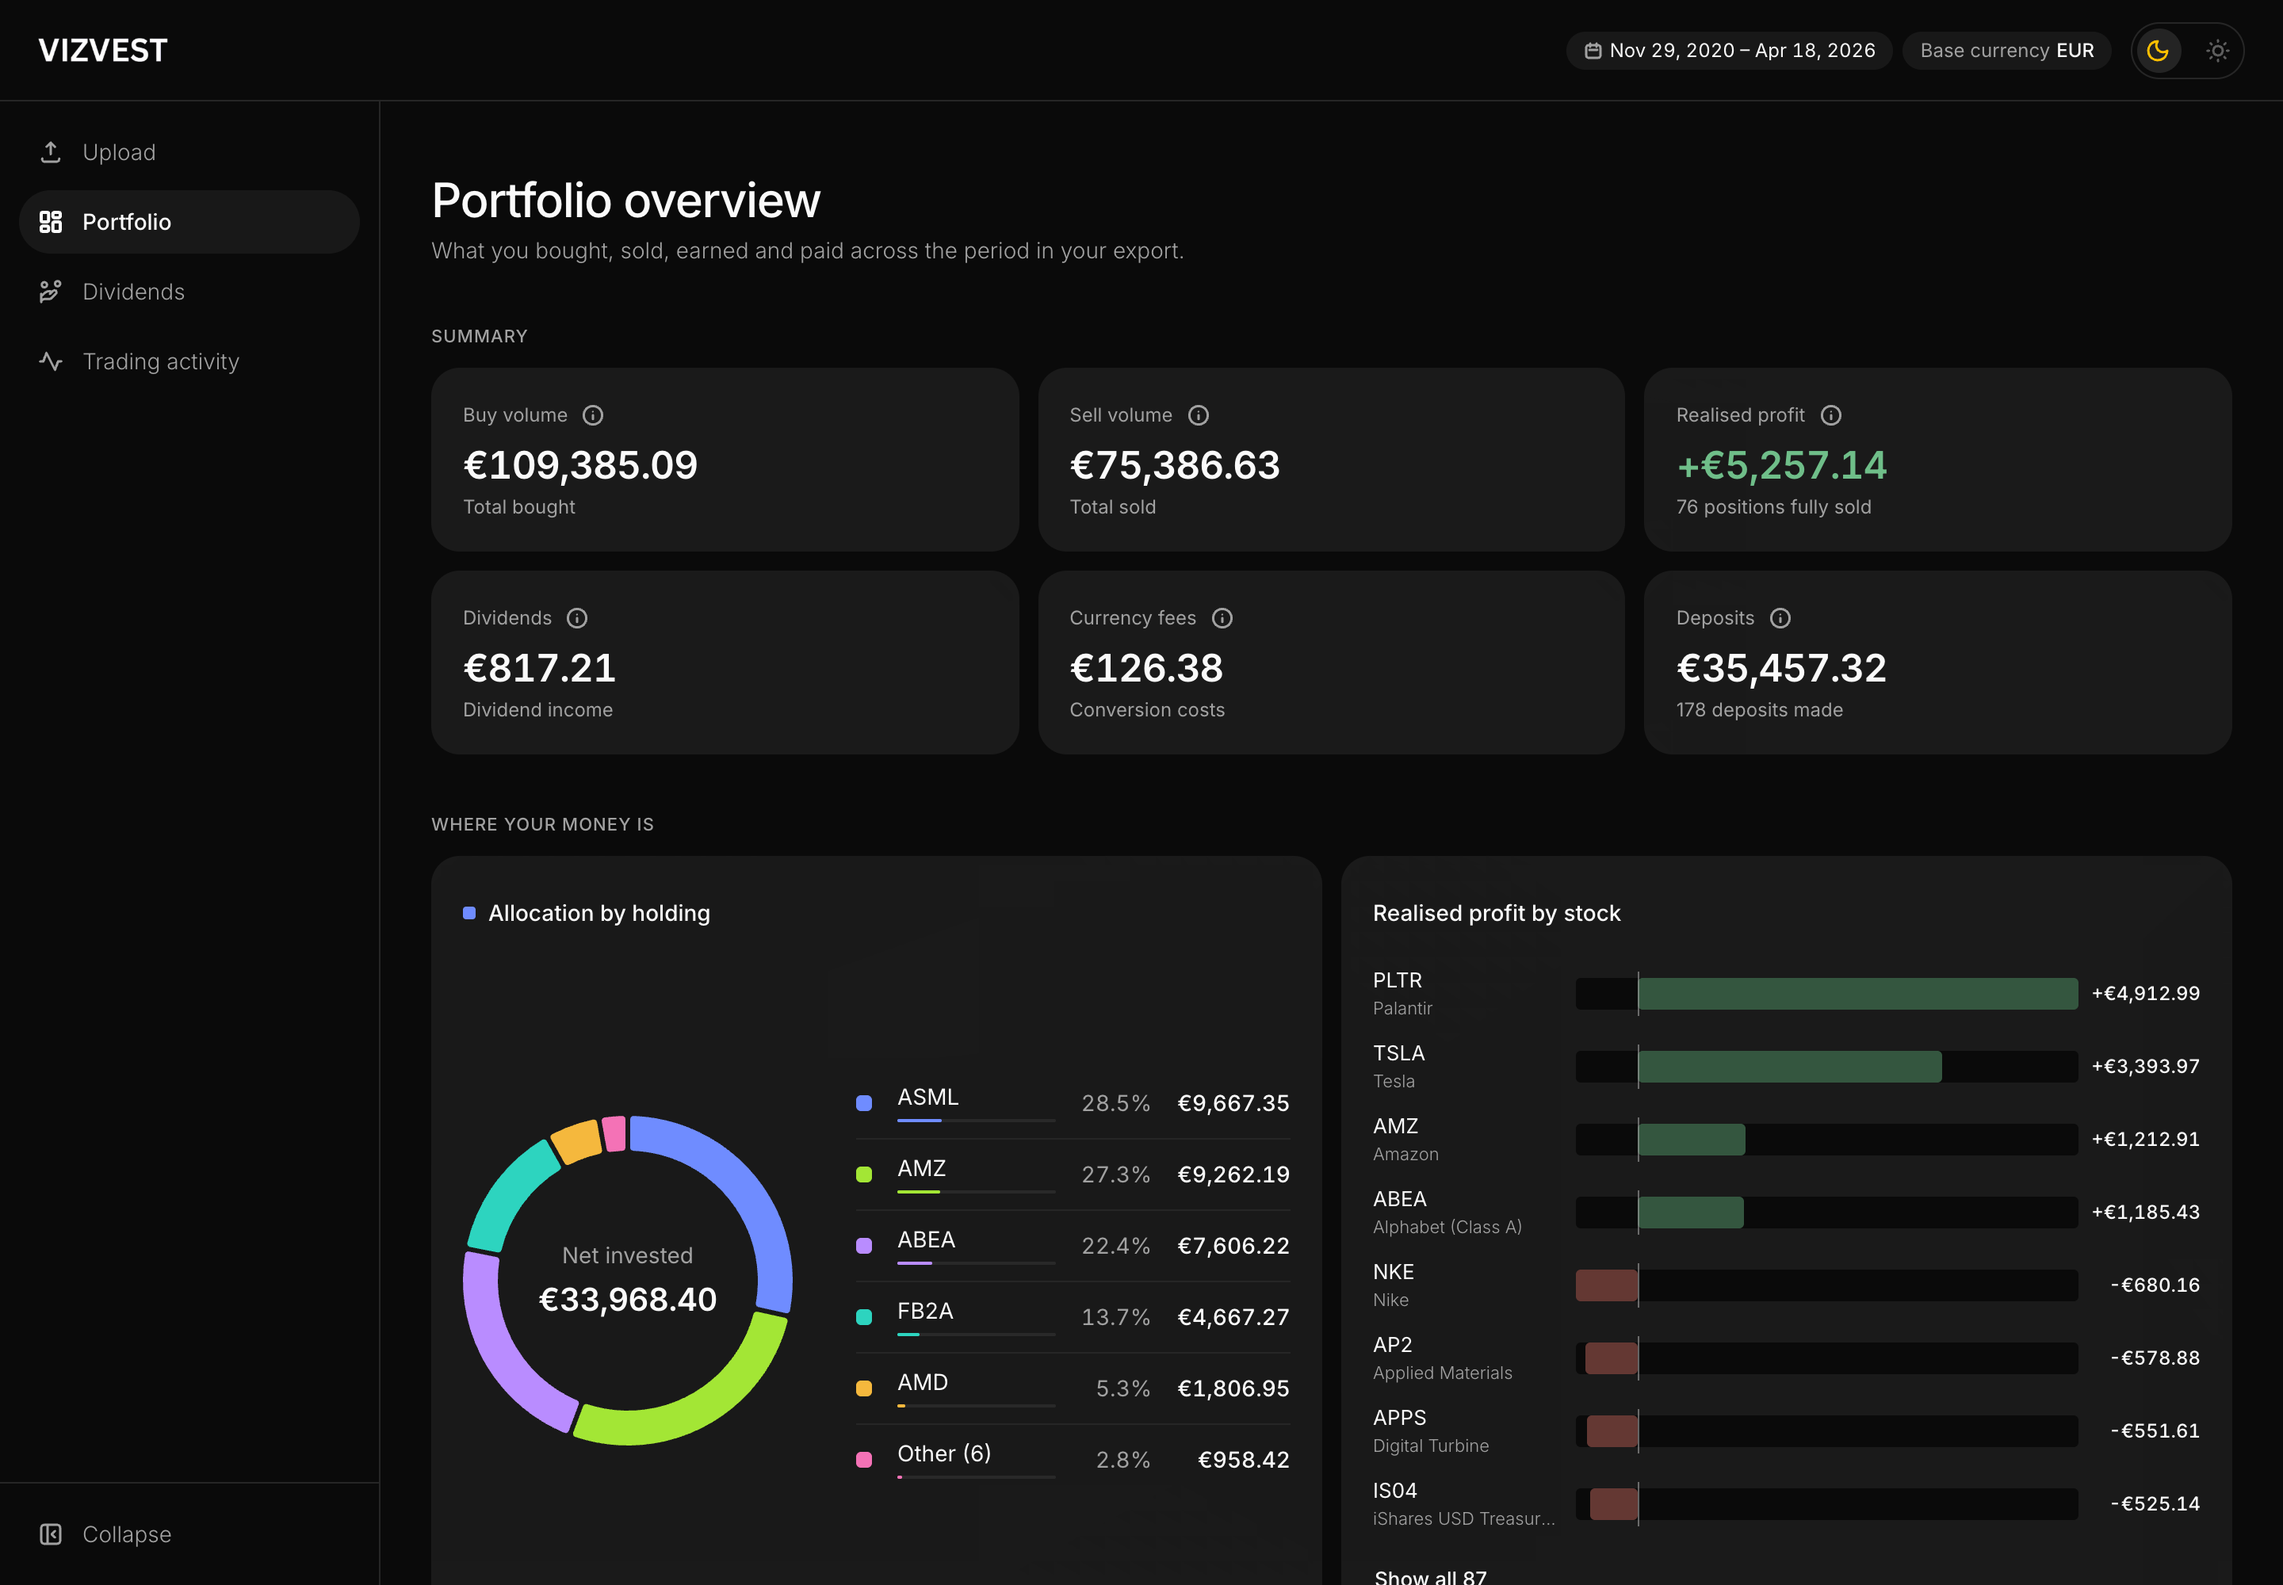
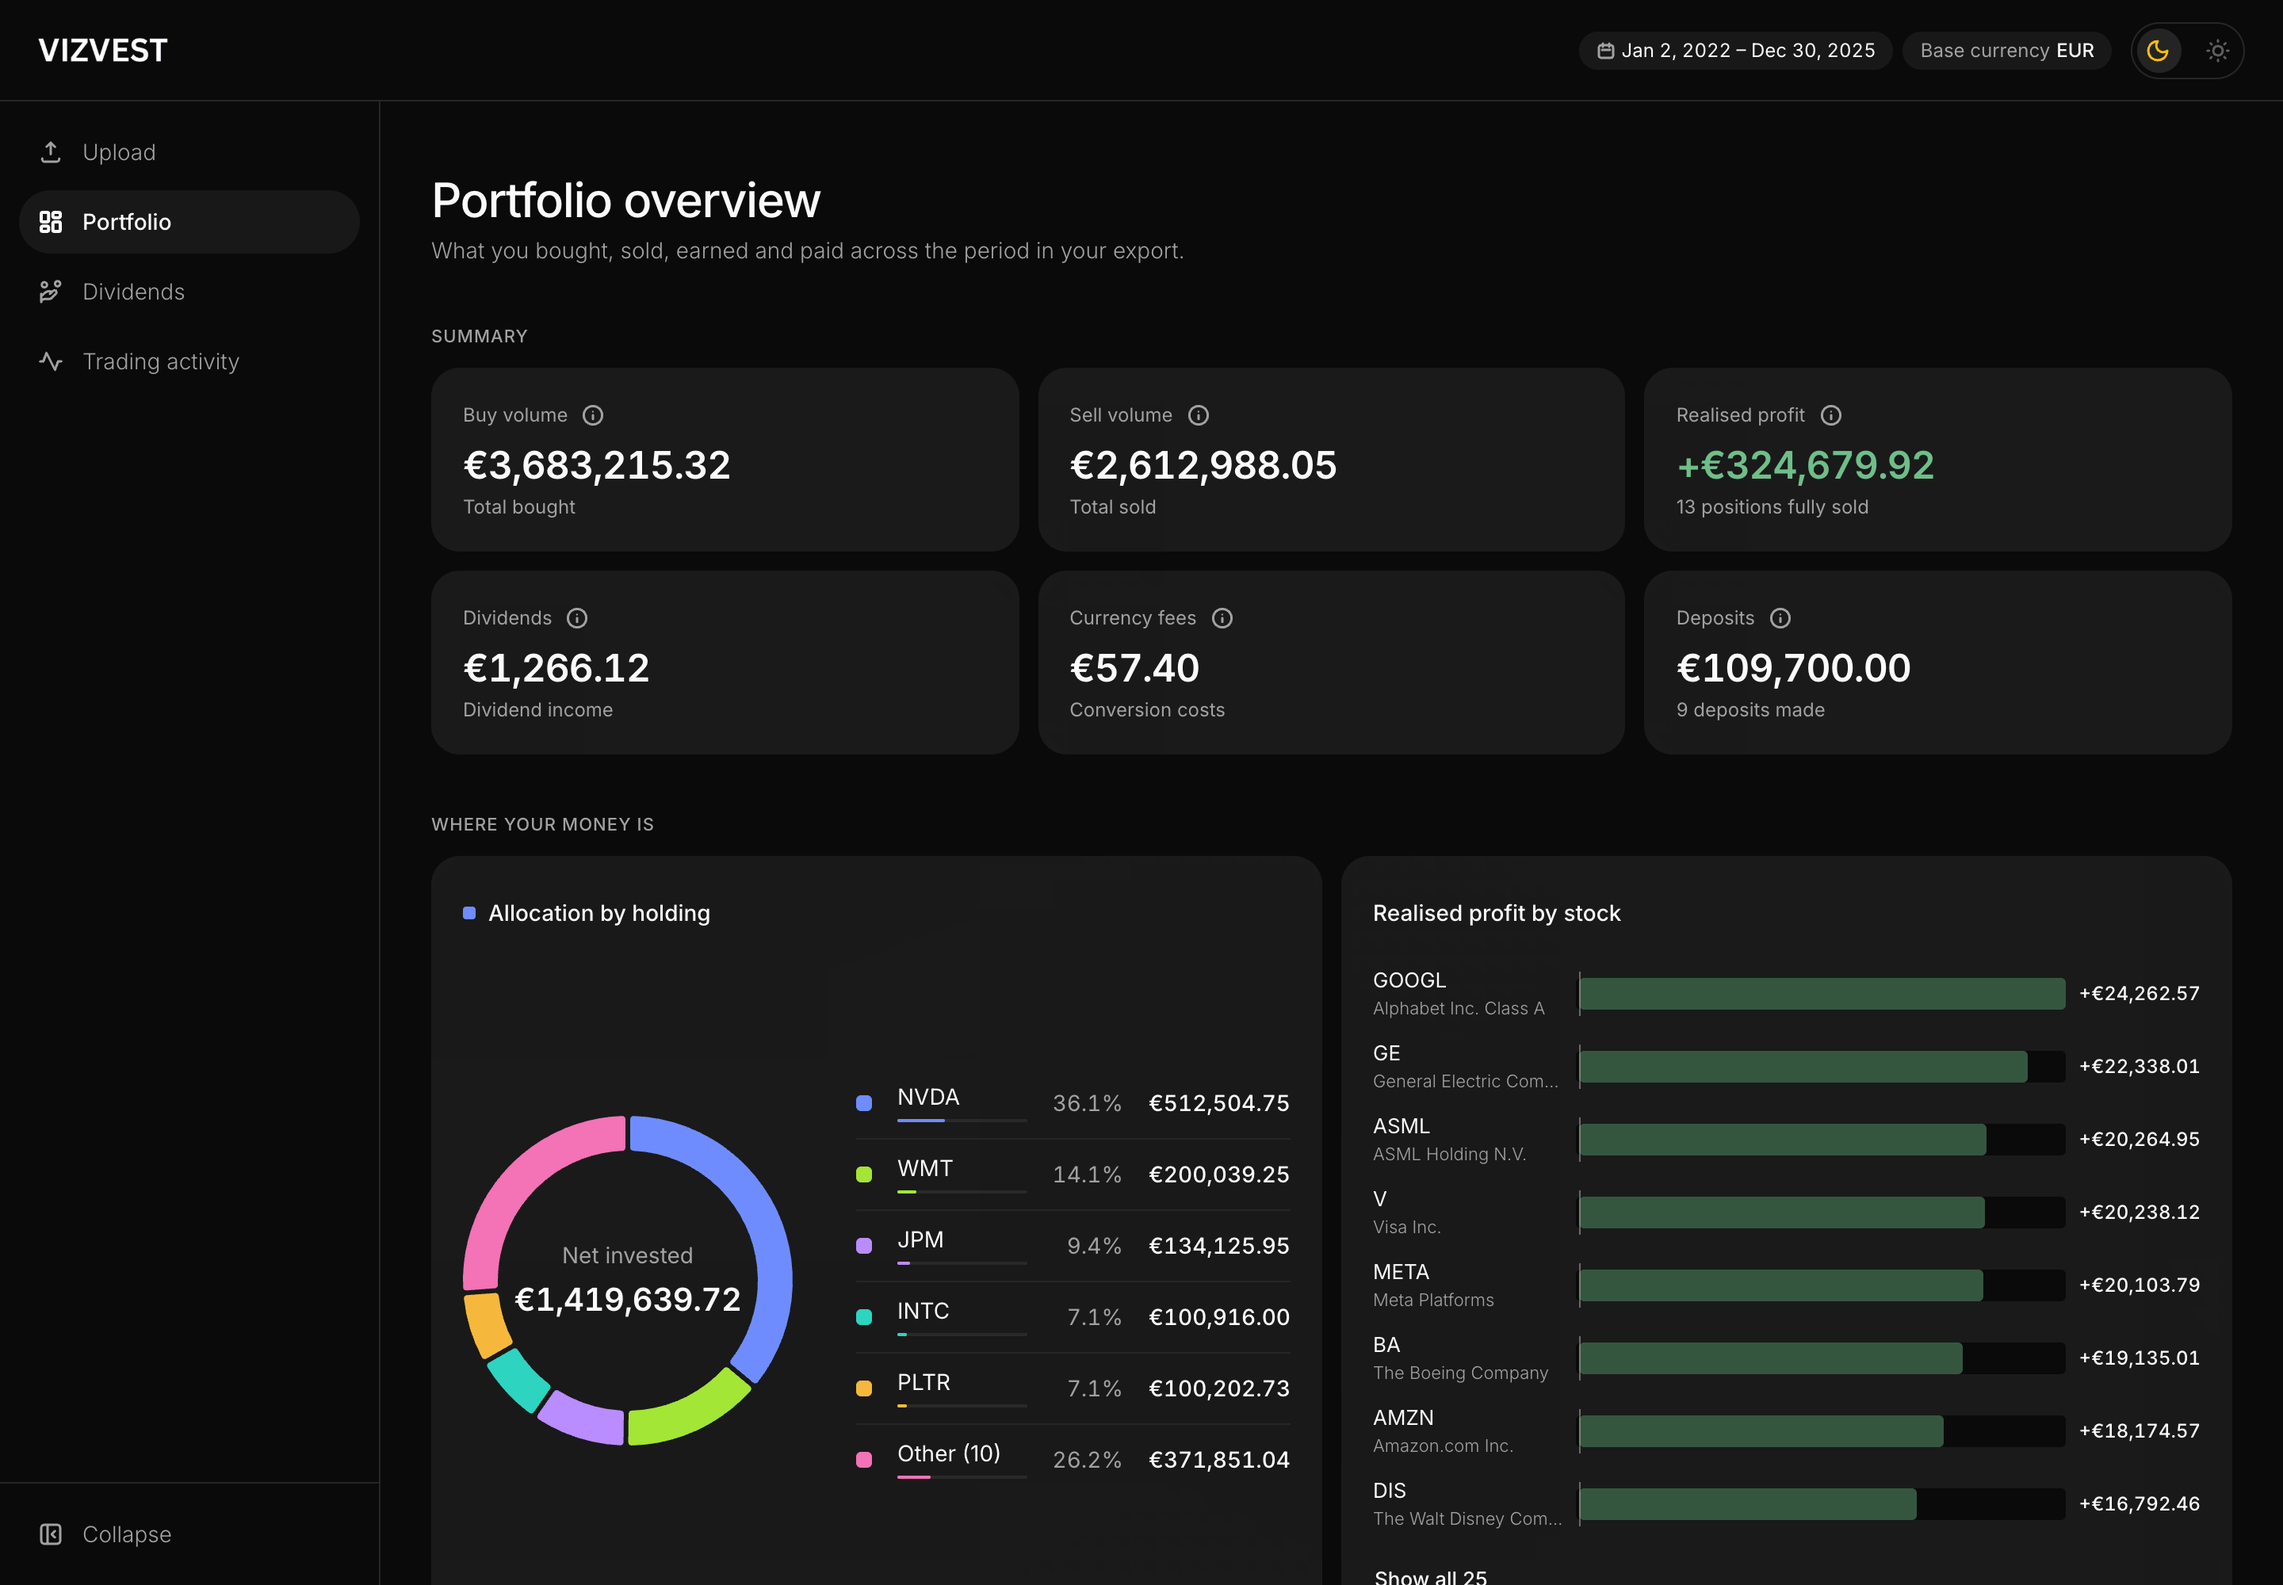
Put Get started on the right of the hero buttons and retake README shots
The hero row now reads "See how it works" then "Get started", in sentence
case. The README screenshots are retaken in dark mode, with the dashboard
loaded from testT212, trading212-mock-3years and trading212-transactions-100.

diff --git a/components/landing/hero.tsx b/components/landing/hero.tsx
@@ -24,17 +24,17 @@ export function Hero() {
           </p>
           <div className="flex flex-col gap-3">
             <div className="flex flex-wrap gap-2">
+              <Button asChild variant="outline">
+                <Link href="#how-it-works">See how it works</Link>
+              </Button>
               <ShineRing>
                 <Button
                   asChild
                   onClick={() => posthog.capture('dashboard_cta_clicked', { location: 'hero_section' })}
                 >
-                  <Link href="/dashboard">Get Started</Link>
+                  <Link href="/dashboard">Get started</Link>
                 </Button>
               </ShineRing>
-              <Button asChild variant="outline">
-                <Link href="#how-it-works">See how it works</Link>
-              </Button>
             </div>
             <p className="text-sm text-muted-foreground">No account needed.</p>
           </div>

diff --git a/README.md b/README.md
@@ -4,7 +4,7 @@ Portfolio analytics for Trading 212. Upload a CSV export and see your holdings, 
 
 ![Vizvest landing page in dark mode](public/assets/readme/landing-dark.png)
 
-![Vizvest portfolio overview in dark mode, loaded with six years of mock Trading 212 exports](public/assets/readme/dashboard-dark.png)
+![Vizvest portfolio overview in dark mode, loaded with three mock Trading 212 exports](public/assets/readme/dashboard-dark.png)
 
 ## Why I built this
 
